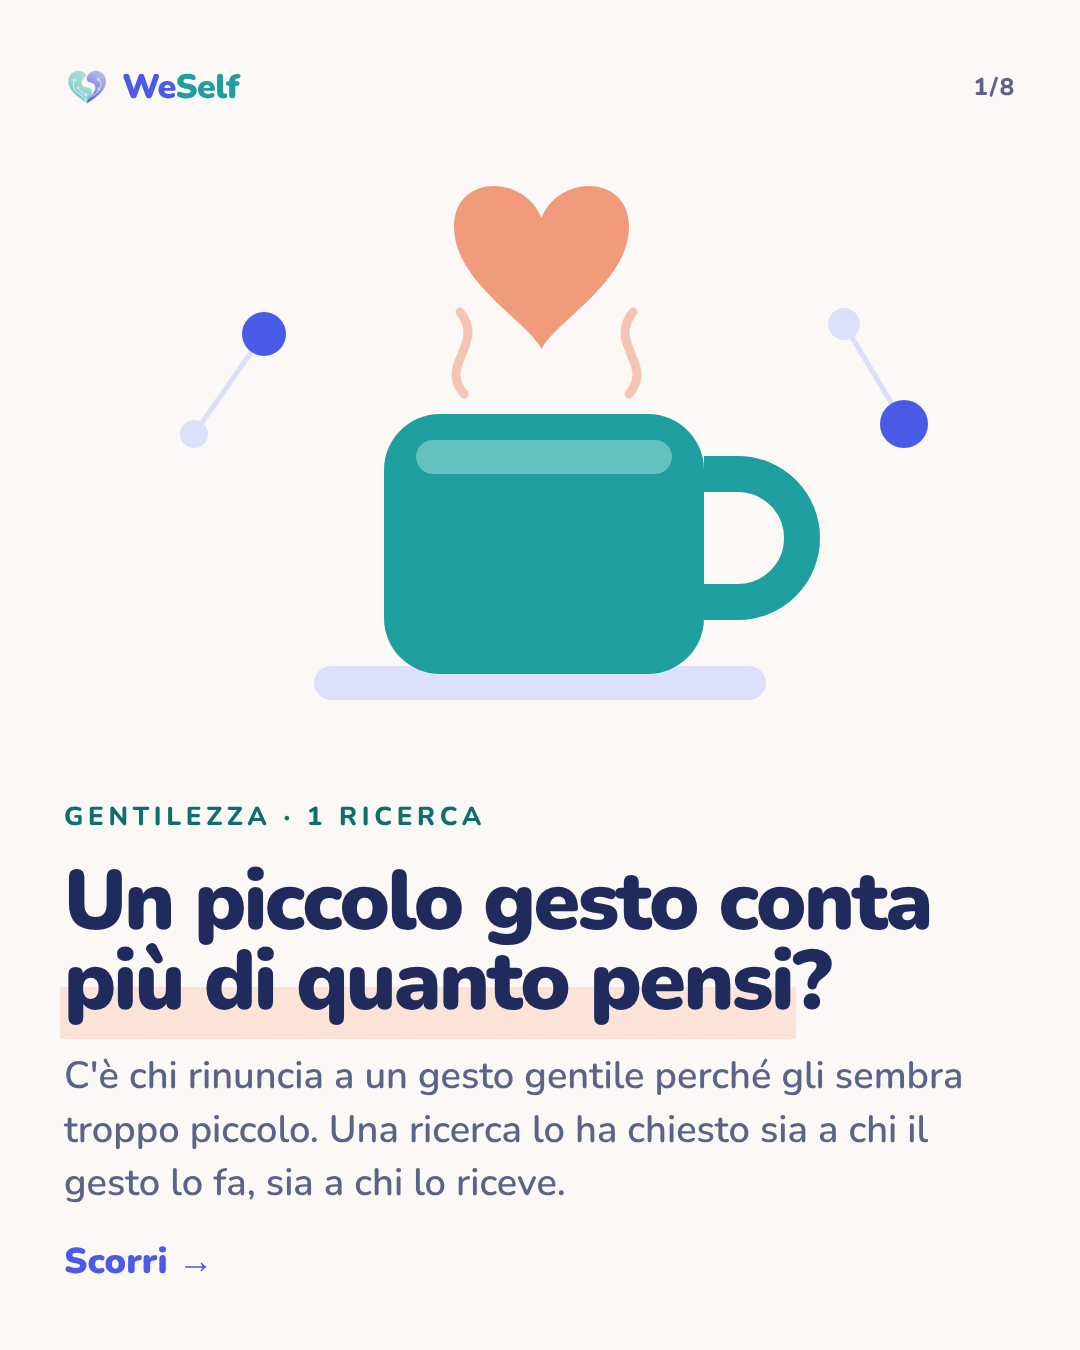
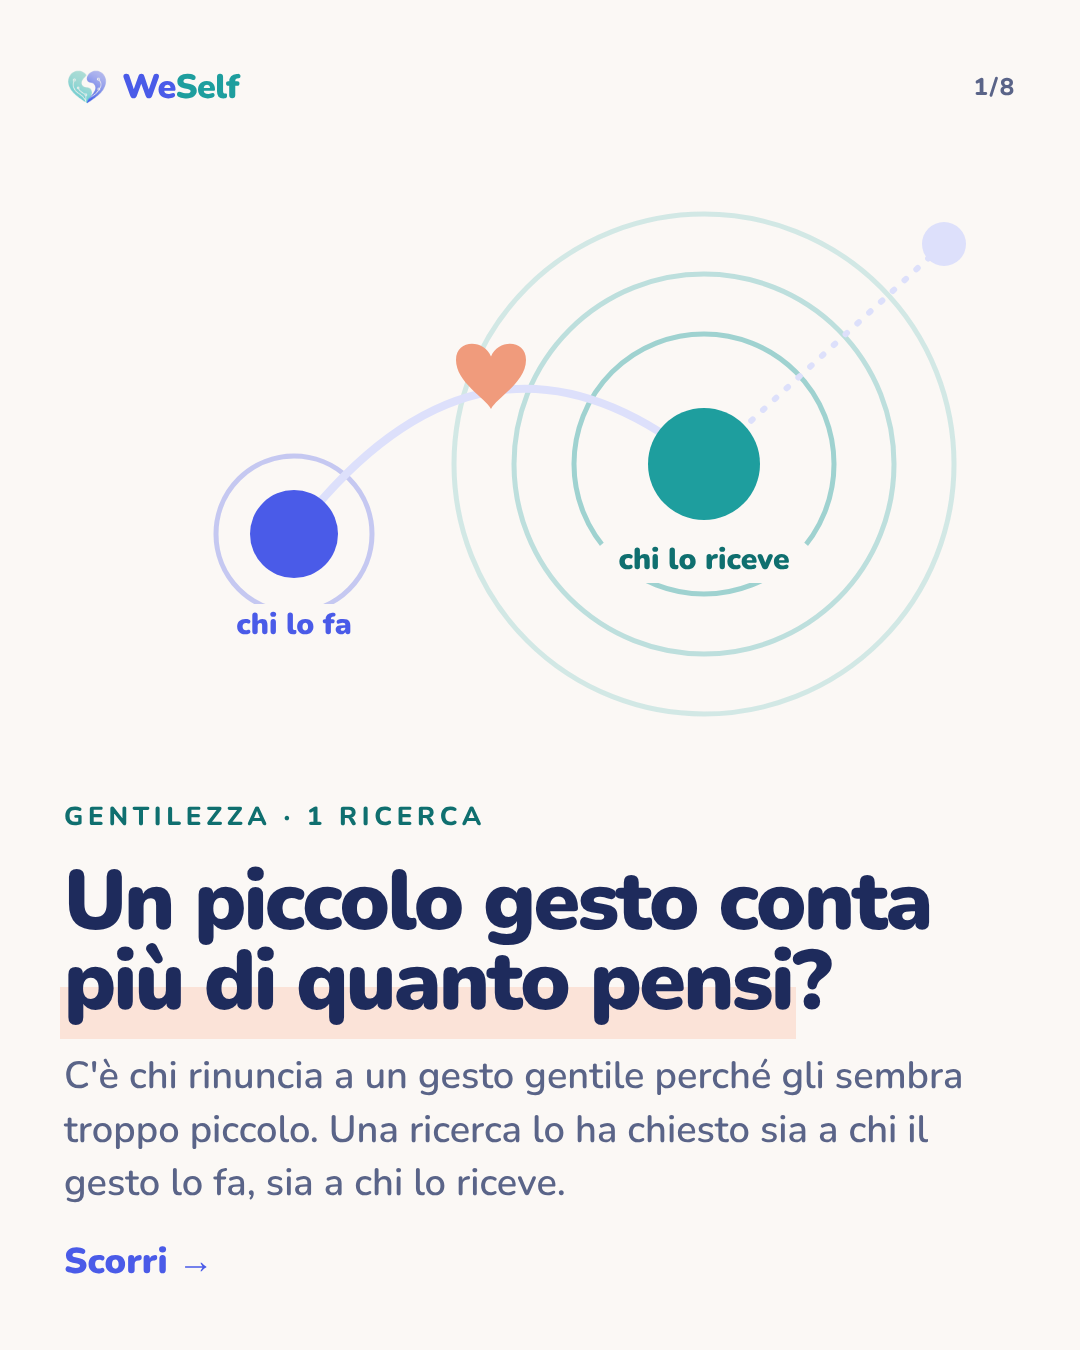
Carosello gentilezza: copertina con chi fa e chi riceve il gesto (onde che si allargano)
Claude-Session: https://claude.ai/code/session_01KYQeP73Zvn8PeP6zhkL2Sc

diff --git a/carosselli/gentilezza/slides.html b/carosselli/gentilezza/slides.html
@@ -99,18 +99,21 @@ svg.shape{position:absolute;z-index:1}
 <section class="slide" id="s1">
   <div class="top"><div class="brand"><img src="weself-mark.png"><span><span class="we">We</span><span class="self">Self</span></span></div><div class="count">1/8</div></div>
   <svg class="mug" width="952" height="580" viewBox="0 0 952 580">
-    <g transform="translate(390 40) scale(1.75)"><path d="M0 30 C0 0 40 0 50 25 C60 0 100 0 100 30 C100 62 58 84 50 100 C42 84 0 62 0 30Z" fill="var(--coral)"/></g>
-    <path d="M400 260 c -26 -30 22 -50 -4 -82" fill="none" stroke="var(--coral)" stroke-width="9" stroke-linecap="round" opacity=".55"/>
-    <path d="M565 260 c 26 -30 -22 -50 4 -82" fill="none" stroke="var(--coral)" stroke-width="9" stroke-linecap="round" opacity=".55"/>
-    <rect x="250" y="532" width="452" height="34" rx="17" fill="var(--peri-soft)"/>
-    <rect x="320" y="280" width="320" height="260" rx="56" fill="var(--teal)"/>
-    <path d="M640 340 h34 a64 64 0 0 1 0 128 h-34" fill="none" stroke="var(--teal)" stroke-width="36"/>
-    <rect x="352" y="306" width="256" height="34" rx="17" fill="var(--teal-soft)" opacity=".5"/>
-    <line x1="200" y1="200" x2="130" y2="300" stroke="var(--peri-soft)" stroke-width="5"/>
-    <circle cx="200" cy="200" r="22" fill="var(--peri)"/><circle cx="130" cy="300" r="14" fill="var(--peri-soft)"/>
-    <line x1="780" y1="190" x2="840" y2="290" stroke="var(--peri-soft)" stroke-width="5"/>
-    <circle cx="780" cy="190" r="16" fill="var(--peri-soft)"/><circle cx="840" cy="290" r="24" fill="var(--peri)"/>
-  </svg>
+    <circle cx="640" cy="330" r="250" fill="none" stroke="var(--teal)" stroke-width="5" opacity="0.18"/>
+    <circle cx="640" cy="330" r="190" fill="none" stroke="var(--teal)" stroke-width="5" opacity="0.28"/>
+    <circle cx="640" cy="330" r="130" fill="none" stroke="var(--teal)" stroke-width="5" opacity="0.42"/>
+    <circle cx="230" cy="400" r="78" fill="none" stroke="var(--peri)" stroke-width="5" opacity=".3"/>
+    <line x1="640" y1="330" x2="880" y2="110" stroke="var(--peri-soft)" stroke-width="6" stroke-dasharray="2 14" stroke-linecap="round"/>
+    <circle cx="880" cy="110" r="22" fill="var(--peri-soft)"/>
+    <path d="M230 400 Q 420 150 640 330" fill="none" stroke="var(--peri-soft)" stroke-width="8" stroke-linecap="round"/>
+    <g transform="translate(392 205) scale(0.7)"><path d="M0 30 C0 0 40 0 50 25 C60 0 100 0 100 30 C100 62 58 84 50 100 C42 84 0 62 0 30Z" fill="var(--coral)"/></g>
+    <circle cx="230" cy="400" r="44" fill="var(--peri)"/>
+    <circle cx="640" cy="330" r="56" fill="var(--teal)"/>
+    <rect x="150" y="470" width="160" height="44" rx="22" fill="#FBF8F5"/>
+    <text x="230" y="500" text-anchor="middle" font-family="Nunito" font-weight="900" font-size="30" fill="var(--peri)">chi lo fa</text>
+    <rect x="530" y="405" width="220" height="44" rx="22" fill="#FBF8F5"/>
+    <text x="640" y="435" text-anchor="middle" font-family="Nunito" font-weight="900" font-size="30" fill="var(--teal-text)">chi lo riceve</text>
+    </svg>
   <div style="margin-top:auto;gap:28px" class="stack">
     <p class="kicker">Gentilezza · 1 ricerca</p>
     <h1 style="font-size:84px">Un piccolo gesto conta <span class="hl">più di quanto pensi</span>?</h1>

diff --git a/carosselli/gentilezza/body.html b/carosselli/gentilezza/body.html
@@ -24,18 +24,21 @@
 <section class="slide" id="s1">
   <div class="top"><div class="brand"><img src="weself-mark.png"><span><span class="we">We</span><span class="self">Self</span></span></div><div class="count">1/8</div></div>
   <svg class="mug" width="952" height="580" viewBox="0 0 952 580">
-    <g transform="translate(390 40) scale(1.75)"><path d="M0 30 C0 0 40 0 50 25 C60 0 100 0 100 30 C100 62 58 84 50 100 C42 84 0 62 0 30Z" fill="var(--coral)"/></g>
-    <path d="M400 260 c -26 -30 22 -50 -4 -82" fill="none" stroke="var(--coral)" stroke-width="9" stroke-linecap="round" opacity=".55"/>
-    <path d="M565 260 c 26 -30 -22 -50 4 -82" fill="none" stroke="var(--coral)" stroke-width="9" stroke-linecap="round" opacity=".55"/>
-    <rect x="250" y="532" width="452" height="34" rx="17" fill="var(--peri-soft)"/>
-    <rect x="320" y="280" width="320" height="260" rx="56" fill="var(--teal)"/>
-    <path d="M640 340 h34 a64 64 0 0 1 0 128 h-34" fill="none" stroke="var(--teal)" stroke-width="36"/>
-    <rect x="352" y="306" width="256" height="34" rx="17" fill="var(--teal-soft)" opacity=".5"/>
-    <line x1="200" y1="200" x2="130" y2="300" stroke="var(--peri-soft)" stroke-width="5"/>
-    <circle cx="200" cy="200" r="22" fill="var(--peri)"/><circle cx="130" cy="300" r="14" fill="var(--peri-soft)"/>
-    <line x1="780" y1="190" x2="840" y2="290" stroke="var(--peri-soft)" stroke-width="5"/>
-    <circle cx="780" cy="190" r="16" fill="var(--peri-soft)"/><circle cx="840" cy="290" r="24" fill="var(--peri)"/>
-  </svg>
+    <circle cx="640" cy="330" r="250" fill="none" stroke="var(--teal)" stroke-width="5" opacity="0.18"/>
+    <circle cx="640" cy="330" r="190" fill="none" stroke="var(--teal)" stroke-width="5" opacity="0.28"/>
+    <circle cx="640" cy="330" r="130" fill="none" stroke="var(--teal)" stroke-width="5" opacity="0.42"/>
+    <circle cx="230" cy="400" r="78" fill="none" stroke="var(--peri)" stroke-width="5" opacity=".3"/>
+    <line x1="640" y1="330" x2="880" y2="110" stroke="var(--peri-soft)" stroke-width="6" stroke-dasharray="2 14" stroke-linecap="round"/>
+    <circle cx="880" cy="110" r="22" fill="var(--peri-soft)"/>
+    <path d="M230 400 Q 420 150 640 330" fill="none" stroke="var(--peri-soft)" stroke-width="8" stroke-linecap="round"/>
+    <g transform="translate(392 205) scale(0.7)"><path d="M0 30 C0 0 40 0 50 25 C60 0 100 0 100 30 C100 62 58 84 50 100 C42 84 0 62 0 30Z" fill="var(--coral)"/></g>
+    <circle cx="230" cy="400" r="44" fill="var(--peri)"/>
+    <circle cx="640" cy="330" r="56" fill="var(--teal)"/>
+    <rect x="150" y="470" width="160" height="44" rx="22" fill="#FBF8F5"/>
+    <text x="230" y="500" text-anchor="middle" font-family="Nunito" font-weight="900" font-size="30" fill="var(--peri)">chi lo fa</text>
+    <rect x="530" y="405" width="220" height="44" rx="22" fill="#FBF8F5"/>
+    <text x="640" y="435" text-anchor="middle" font-family="Nunito" font-weight="900" font-size="30" fill="var(--teal-text)">chi lo riceve</text>
+    </svg>
   <div style="margin-top:auto;gap:28px" class="stack">
     <p class="kicker">Gentilezza · 1 ricerca</p>
     <h1 style="font-size:84px">Un piccolo gesto conta <span class="hl">più di quanto pensi</span>?</h1>

diff --git a/carosselli/gentilezza/kit-pubblicazione-gentilezza.md b/carosselli/gentilezza/kit-pubblicazione-gentilezza.md
@@ -40,7 +40,7 @@ Come abbiamo tradotto i numeri: nello studio della cioccolata calda (75 coppie),
 
 ## Testo alternativo (una riga per immagine)
 
-1. Copertina WeSelf: una grande tazza verde su un piattino; il vapore che sale prende la forma di un cuore arancione, e ai lati due coppie di piccoli cerchi collegati da una linea. Testo: «Un piccolo gesto conta più di quanto pensi? C'è chi rinuncia a un gesto gentile perché gli sembra troppo piccolo. Una ricerca lo ha chiesto sia a chi il gesto lo fa, sia a chi lo riceve.»
+1. Copertina WeSelf: due cerchi, «chi lo fa» in blu e «chi lo riceve» in verde, uniti da un arco su cui viaggia un piccolo cuore arancione; intorno a chi riceve si allargano tre grandi cerchi concentrici, molto più ampi di quello intorno a chi fa il gesto, e arrivano fino a una terza persona. Testo: «Un piccolo gesto conta più di quanto pensi? C'è chi rinuncia a un gesto gentile perché gli sembra troppo piccolo. Una ricerca lo ha chiesto sia a chi il gesto lo fa, sia a chi lo riceve.»
 2. La ricerca: 8 studi negli Stati Uniti su piccoli gesti di gentilezza, come offrire un caffè, dare un passaggio, portare dei fiori, regalare dolci o una cioccolata calda. Dopo ogni gesto, chi lo aveva fatto ha detto quanto pensava che l'altra persona si sarebbe sentita bene; chi lo aveva ricevuto ha detto come si sentiva davvero.
 3. Alla pista di pattinaggio: in un parco, 75 persone hanno regalato una cioccolata calda a uno sconosciuto. Su una scala da 0 a 10, il gesto valeva 3,8 per chi lo ha fatto e 7 per chi lo ha ricevuto. Chi l'ha ricevuta si è sentito meglio di quanto aveva previsto chi l'aveva offerta.
 4. I numeri, tradotti: per chi ha ricevuto la cioccolata, il gesto valeva quasi il doppio. In un altro studio, chi aveva appena ricevuto un gesto gentile ha poi lasciato a uno sconosciuto in media il 48% di una somma da dividere, contro il 41% di chi aveva ricevuto lo stesso oggetto senza il gesto.
